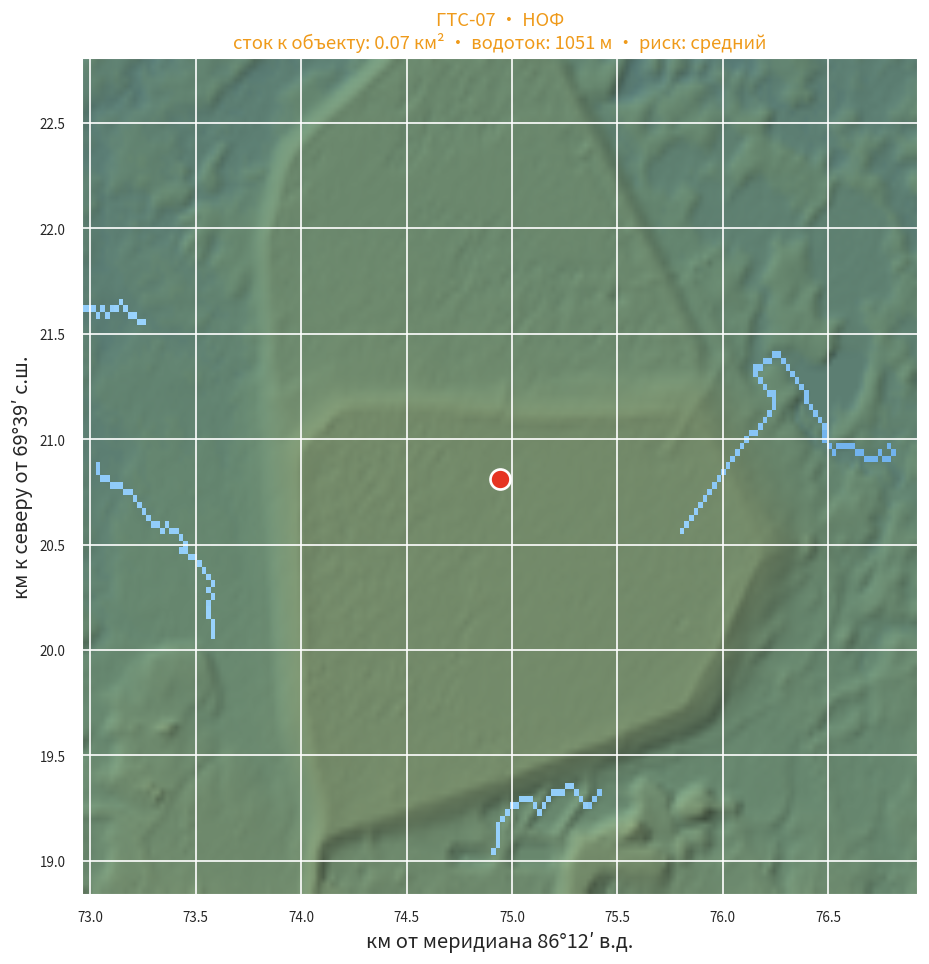
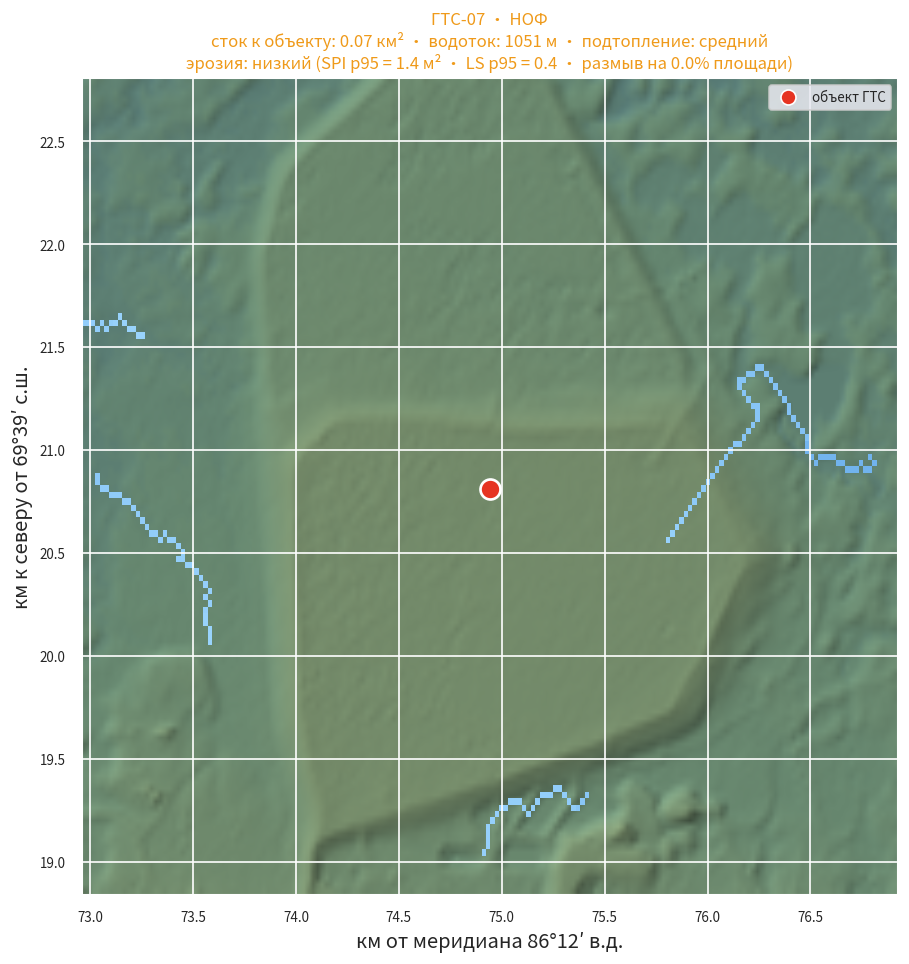
C2: эрозионный скрининг (LS·RUSLE + SPI) — карты, окно «Модель стока», отчёты объектов

diff --git a/stok_data.js b/stok_data.js
@@ -1,1 +1,1 @@
-window.STOK={"src": "Copernicus DEM GLO-30 (открытые данные ESA), ячейка ~31×22 м, скрининговый уровень", "method": "Заполнение депрессий (priority-flood), направление стока D8, аккумуляция стока; водотоки от площади ~1 км²", "cell_m2": 675.5, "objects": [{"id": "gts01", "name": "Хвостохранилище Талнахской обогатительной фабрики (ТОФ)", "d": "ТОФ", "elev": 51.7, "catch_direct_km2": 0.0, "catch_near_km2": 1.55, "near_off_m": 397, "dist_stream_m": 478, "slope_mean": 3.1, "slope_max": 12.6, "depr_pct": 11.9, "risk": "средний"}, {"id": "gts02", "name": "Пруд-накопитель ТОФ", "d": "ТОФ", "elev": 62.5, "catch_direct_km2": 0.0, "catch_near_km2": 1.04, "near_off_m": 477, "dist_stream_m": 390, "slope_mean": 3.5, "slope_max": 13.8, "depr_pct": 27.0, "risk": "средний"}, {"id": "gts03", "name": "Высоконапорный гидротранспорт ТОФ–НМЗ", "d": "ТОФ", "elev": 50.7, "catch_direct_km2": 0.01, "catch_near_km2": 1.65, "near_off_m": 498, "dist_stream_m": 225, "slope_mean": 3.5, "slope_max": 11.9, "depr_pct": 9.9, "risk": "средний"}, {"id": "gts04", "name": "Гидротранспорт ТОФ–УПЗК рудника «Комсомольский»", "d": "ТОФ", "elev": 115.3, "catch_direct_km2": 0.0, "catch_near_km2": 0.12, "near_off_m": 419, "dist_stream_m": 961, "slope_mean": 4.4, "slope_max": 18.3, "depr_pct": 6.5, "risk": "низкий"}, {"id": "gts05", "name": "Хвостохранилище Надеждинского металлургического завода (НМЗ)", "d": "НМЗ", "elev": 263.0, "catch_direct_km2": 0.0, "catch_near_km2": 1.72, "near_off_m": 476, "dist_stream_m": 83, "slope_mean": 1.9, "slope_max": 7.2, "depr_pct": 19.2, "risk": "высокий"}, {"id": "gts06", "name": "Гипсохранилище НМЗ (ГПХ)", "d": "НМЗ", "elev": 256.8, "catch_direct_km2": 0.0, "catch_near_km2": 1.72, "near_off_m": 496, "dist_stream_m": 118, "slope_mean": 1.3, "slope_max": 7.2, "depr_pct": 24.2, "risk": "высокий"}, {"id": "gts07", "name": "Хвостохранилище «Лебяжье» НОФ (ООО «Медвежий ручей»)", "d": "НОФ", "elev": 71.5, "catch_direct_km2": 0.01, "catch_near_km2": 0.07, "near_off_m": 468, "dist_stream_m": 1051, "slope_mean": 0.1, "slope_max": 2.7, "depr_pct": 95.1, "risk": "средний"}, {"id": "gts08", "name": "Хвостохранилище № 1 НОФ", "d": "НОФ", "elev": 119.1, "catch_direct_km2": 0.02, "catch_near_km2": 0.23, "near_off_m": 221, "dist_stream_m": 1157, "slope_mean": 0.0, "slope_max": 0.7, "depr_pct": 91.9, "risk": "средний"}, {"id": "gts09", "name": "Никелевые отстойники НОФ", "d": "НОФ", "elev": 104.0, "catch_direct_km2": 0.0, "catch_near_km2": 1.01, "near_off_m": 156, "dist_stream_m": 549, "slope_mean": 3.8, "slope_max": 18.1, "depr_pct": 27.0, "risk": "средний"}, {"id": "gts10", "name": "ГТС системы трёх озёр (плотина на ручье Артинатка, г. Дудинка)", "d": "Дудинка", "elev": 78.7, "catch_direct_km2": 0.0, "catch_near_km2": 5.48, "near_off_m": 499, "dist_stream_m": 482, "slope_mean": 2.3, "slope_max": 11.6, "depr_pct": 44.7, "risk": "высокий"}]};
+window.STOK={"src": "Copernicus DEM GLO-30 (открытые данные ESA), ячейка ~31×22 м, скрининговый уровень", "method": "Заполнение депрессий (priority-flood), направление стока D8, аккумуляция стока; водотоки от площади ~1 км²; эрозионный скрининг: LS-фактор RUSLE (Desmet–Govers), индекс мощности потока SPI (Moore et al.)", "cell_m2": 675.5, "objects": [{"id": "gts01", "name": "Хвостохранилище Талнахской обогатительной фабрики (ТОФ)", "d": "ТОФ", "elev": 51.7, "catch_direct_km2": 0.0, "catch_near_km2": 1.55, "near_off_m": 397, "dist_stream_m": 478, "slope_mean": 3.1, "slope_max": 12.6, "depr_pct": 11.9, "risk": "средний", "ls_p95": 5.4, "spi_p95": 104.7, "eros_pct": 1.0, "hotspots": [], "eros": "средний"}, {"id": "gts02", "name": "Пруд-накопитель ТОФ", "d": "ТОФ", "elev": 62.5, "catch_direct_km2": 0.0, "catch_near_km2": 1.04, "near_off_m": 477, "dist_stream_m": 390, "slope_mean": 3.5, "slope_max": 13.8, "depr_pct": 27.0, "risk": "средний", "ls_p95": 5.8, "spi_p95": 67.6, "eros_pct": 1.3, "hotspots": [{"lon": 88.357778, "lat": 69.501667, "spi": 840, "cells": 4, "off_m": 267}, {"lon": 88.36, "lat": 69.503333, "spi": 479, "cells": 4, "off_m": 458}, {"lon": 88.352778, "lat": 69.503333, "spi": 379, "cells": 3, "off_m": 342}], "eros": "средний"}, {"id": "gts03", "name": "Высоконапорный гидротранспорт ТОФ–НМЗ", "d": "ТОФ", "elev": 50.7, "catch_direct_km2": 0.01, "catch_near_km2": 1.65, "near_off_m": 498, "dist_stream_m": 225, "slope_mean": 3.5, "slope_max": 11.9, "depr_pct": 9.9, "risk": "средний", "ls_p95": 6.7, "spi_p95": 536.4, "eros_pct": 0.5, "hotspots": [], "eros": "высокий"}, {"id": "gts04", "name": "Гидротранспорт ТОФ–УПЗК рудника «Комсомольский»", "d": "ТОФ", "elev": 115.3, "catch_direct_km2": 0.0, "catch_near_km2": 0.12, "near_off_m": 419, "dist_stream_m": 961, "slope_mean": 4.4, "slope_max": 18.3, "depr_pct": 6.5, "risk": "низкий", "ls_p95": 6.9, "spi_p95": 22.3, "eros_pct": 0.8, "hotspots": [{"lon": 88.36, "lat": 69.503333, "spi": 479, "cells": 3, "off_m": 420}, {"lon": 88.356667, "lat": 69.503889, "spi": 107, "cells": 3, "off_m": 483}], "eros": "низкий"}, {"id": "gts05", "name": "Хвостохранилище Надеждинского металлургического завода (НМЗ)", "d": "НМЗ", "elev": 263.0, "catch_direct_km2": 0.0, "catch_near_km2": 1.72, "near_off_m": 476, "dist_stream_m": 83, "slope_mean": 1.9, "slope_max": 7.2, "depr_pct": 19.2, "risk": "высокий", "ls_p95": 4.4, "spi_p95": 150.2, "eros_pct": 0.0, "hotspots": [{"lon": 87.878333, "lat": 69.283889, "spi": 131, "cells": 5, "off_m": 330}], "eros": "средний"}, {"id": "gts06", "name": "Гипсохранилище НМЗ (ГПХ)", "d": "НМЗ", "elev": 256.8, "catch_direct_km2": 0.0, "catch_near_km2": 1.72, "near_off_m": 496, "dist_stream_m": 118, "slope_mean": 1.3, "slope_max": 7.2, "depr_pct": 24.2, "risk": "высокий", "ls_p95": 3.7, "spi_p95": 82.3, "eros_pct": 0.0, "hotspots": [], "eros": "средний"}, {"id": "gts07", "name": "Хвостохранилище «Лебяжье» НОФ (ООО «Медвежий ручей»)", "d": "НОФ", "elev": 71.5, "catch_direct_km2": 0.01, "catch_near_km2": 0.07, "near_off_m": 468, "dist_stream_m": 1051, "slope_mean": 0.1, "slope_max": 2.7, "depr_pct": 95.1, "risk": "средний", "ls_p95": 0.4, "spi_p95": 1.4, "eros_pct": 0.0, "hotspots": [], "eros": "низкий"}, {"id": "gts08", "name": "Хвостохранилище № 1 НОФ", "d": "НОФ", "elev": 119.1, "catch_direct_km2": 0.02, "catch_near_km2": 0.23, "near_off_m": 221, "dist_stream_m": 1157, "slope_mean": 0.0, "slope_max": 0.7, "depr_pct": 91.9, "risk": "средний", "ls_p95": 0.6, "spi_p95": 0.5, "eros_pct": 0.0, "hotspots": [], "eros": "низкий"}, {"id": "gts09", "name": "Никелевые отстойники НОФ", "d": "НОФ", "elev": 104.0, "catch_direct_km2": 0.0, "catch_near_km2": 1.01, "near_off_m": 156, "dist_stream_m": 549, "slope_mean": 3.8, "slope_max": 18.1, "depr_pct": 27.0, "risk": "средний", "ls_p95": 13.6, "spi_p95": 466.7, "eros_pct": 5.2, "hotspots": [{"lon": 88.190556, "lat": 69.311389, "spi": 4182, "cells": 42, "off_m": 460}, {"lon": 88.2, "lat": 69.311389, "spi": 2450, "cells": 4, "off_m": 486}, {"lon": 88.197778, "lat": 69.313611, "spi": 2448, "cells": 6, "off_m": 227}], "eros": "высокий"}, {"id": "gts10", "name": "ГТС системы трёх озёр (плотина на ручье Артинатка, г. Дудинка)", "d": "Дудинка", "elev": 78.7, "catch_direct_km2": 0.0, "catch_near_km2": 5.48, "near_off_m": 499, "dist_stream_m": 482, "slope_mean": 2.3, "slope_max": 11.6, "depr_pct": 44.7, "risk": "высокий", "ls_p95": 3.8, "spi_p95": 52.8, "eros_pct": 0.0, "hotspots": [], "eros": "низкий"}]};
